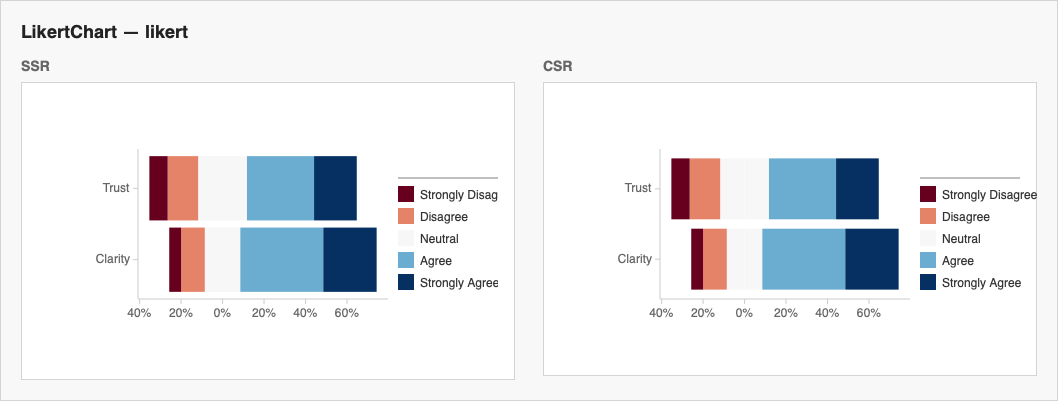
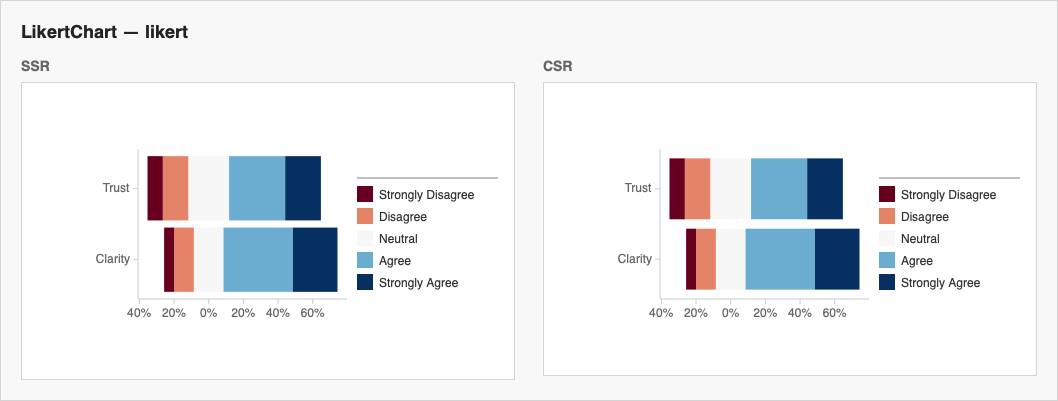
Reduce default legend distance to 10px
Updates legend spacing defaults from 12px to 10px across client and SSR paths. This adjusts automatic side/top margin reservations, legend placement math, and the legend-tight diagnostic threshold, with corresponding docs, unit tests, server tests, and SSR parity snapshots updated to match the new layout.

Changed region(s): [[0.6238, 0.389, 0.9981, 0.808], [0.1248, 0.389, 0.4679, 0.808]]

diff --git a/src/components/charts/shared/hooks.test.ts b/src/components/charts/shared/hooks.test.ts
@@ -527,7 +527,7 @@ describe("useChartLegendAndMargin", () => {
     expect(groups).toHaveLength(2)
     expect(groups[0].items.map(item => item.label)).toEqual(["A", "B", "C"])
     expect(groups[1].items[0].label).toBe("Threshold")
-    expect(result.current.margin.right).toBe(112)
+    expect(result.current.margin.right).toBe(110)
   })
 
   it("carries caller legendDistance into the composed automatic legend", () => {
@@ -586,7 +586,7 @@ describe("useChartLegendAndMargin", () => {
         userMargin: undefined,
       })
     )
-    expect(result.current.margin.right).toBe(112)
+    expect(result.current.margin.right).toBe(110)
   })
 
   it("preserves an explicitly owned right margin", () => {
@@ -614,7 +614,7 @@ describe("useChartLegendAndMargin", () => {
         userMargin: { right: undefined },
       })
     )
-    expect(result.current.margin.right).toBe(112)
+    expect(result.current.margin.right).toBe(110)
   })
 
   it("treats auto and null margin sides as explicit auto-reservation", () => {
@@ -628,7 +628,7 @@ describe("useChartLegendAndMargin", () => {
         userMargin: { right: "auto" },
       })
     )
-    expect(rightAuto.result.current.margin.right).toBe(112)
+    expect(rightAuto.result.current.margin.right).toBe(110)
 
     const rightNull = renderHook(() =>
       useChartLegendAndMargin({
@@ -639,7 +639,7 @@ describe("useChartLegendAndMargin", () => {
         userMargin: { right: null },
       })
     )
-    expect(rightNull.result.current.margin.right).toBe(112)
+    expect(rightNull.result.current.margin.right).toBe(110)
   })
 
   it("sizes automatic side margins from the longest legend label", () => {
@@ -667,7 +667,7 @@ describe("useChartLegendAndMargin", () => {
       })
     )
 
-    expect(right.result.current.margin.right).toBeGreaterThan(112)
+    expect(right.result.current.margin.right).toBeGreaterThan(110)
     expect(left.result.current.margin.left).toBe(right.result.current.margin.right)
   })
 
@@ -709,7 +709,7 @@ describe("useChartLegendAndMargin", () => {
       })
     )
 
-    expect(result.current.margin.top).toBe(58)
+    expect(result.current.margin.top).toBe(56)
   })
 
   it("merges user margin with defaults", () => {

diff --git a/src/components/server/staticLegend.test.tsx b/src/components/server/staticLegend.test.tsx
@@ -73,8 +73,8 @@ describe("renderStaticLegend", () => {
       ...baseConfig,
       margin: { ...baseConfig.margin, right: 100 },
     })
-    // Right position aligns 12px after chart content: totalWidth - margin.right + 12 = 512
-    expect(svg).toContain("translate(512,")
+    // Right position aligns 10px after chart content: totalWidth - margin.right + 10 = 510
+    expect(svg).toContain("translate(510,")
   })
 
   it("positions legend at top", () => {
@@ -85,7 +85,7 @@ describe("renderStaticLegend", () => {
 
   it("matches the client bottom legend placement", () => {
     const svg = renderLegendString({ ...baseConfig, position: "bottom" })
-    expect(svg).toContain("translate(40,382)")
+    expect(svg).toContain("translate(40,380)")
   })
 
   it("positions legend at left", () => {
@@ -94,7 +94,7 @@ describe("renderStaticLegend", () => {
       position: "left",
       margin: { ...baseConfig.margin, left: 100 },
     })
-    expect(svg).toContain("translate(-12,")
+    expect(svg).toContain("translate(-10,")
   })
 
   it("uses legendDistance as the plot-to-legend gap", () => {

diff --git a/docs/src/pages/features/LegendsPage.jsx b/docs/src/pages/features/LegendsPage.jsx
@@ -147,7 +147,7 @@ const legendProps = [
     name: "legend.legendDistance",
     type: "number",
     required: false,
-    default: "12",
+    default: "10",
     description:
       "Gap in pixels between the nearest legend edge and the plot edge. This does not add padding at the outer SVG edge.",
   },
@@ -416,7 +416,7 @@ export default function LegendsPage() {
 
       <p>
         <code>legendDistance</code> belongs to the legend configuration and
-        defaults to <code>12</code> pixels. It measures the gap between the
+        defaults to <code>10</code> pixels. It measures the gap between the
         nearest legend edge and the plot edge; it does not add padding at the
         outside edge of the SVG.
       </p>

diff --git a/src/components/legendLayout.test.ts b/src/components/legendLayout.test.ts
@@ -15,7 +15,7 @@ describe("side legend measurement", () => {
     }
 
     expect(resolveSideLegendWidth(legend)).toBe(100)
-    expect(resolveSideLegendMargin(legend)).toBe(112)
+    expect(resolveSideLegendMargin(legend)).toBe(110)
   })
 
   it("grows to fit categorical item and group labels", () => {
@@ -75,6 +75,6 @@ describe("side legend measurement", () => {
     expect(resolveSideLegendMargin(
       legend,
       { swatchSize: 80, labelGap: 30 },
-    )).toBe(129)
+    )).toBe(127)
   })
 })

diff --git a/src/components/server/serverFeatures.renderChart.test.tsx b/src/components/server/serverFeatures.renderChart.test.tsx
@@ -548,8 +548,8 @@ describe("renderChart", () => {
     expect(svg).toContain(">Review<")
     expect(countMatches(svg, />Intake</g)).toBe(1)
     expect(countMatches(svg, />Review</g)).toBe(1)
-    expect(svg).toContain('class="semiotic-legend" transform="translate(272,30)"')
-    expect(explicitRight).toContain('class="semiotic-legend" transform="translate(382,30)"')
+    expect(svg).toContain('class="semiotic-legend" transform="translate(270,30)"')
+    expect(explicitRight).toContain('class="semiotic-legend" transform="translate(380,30)"')
   })
 
   it("composes caller groups after specialized chart-owned legends", () => {

diff --git a/src/components/server/staticSVGChrome.tsx b/src/components/server/staticSVGChrome.tsx
@@ -115,8 +115,8 @@ function effectiveFrameLegend(
 }
 
 const HOC_LEGEND_MARGIN: Record<LegendPosition, number> = {
-  right: 112,
-  left: 112,
+  right: 110,
+  left: 110,
   top: 50,
   bottom: 80,
 }

diff --git a/src/components/types/legendTypes.tsx b/src/components/types/legendTypes.tsx
@@ -31,13 +31,13 @@ export interface GradientLegendConfig {
 
 export interface CategoricalLegendConfig {
   legendGroups: LegendGroup[]
-  /** Gap in pixels between the legend edge and the plot edge. Default: 12. */
+  /** Gap in pixels between the legend edge and the plot edge. Default: 10. */
   legendDistance?: number
 }
 
 export interface GradientLegendValue {
   gradient: GradientLegendConfig
-  /** Gap in pixels between the legend edge and the plot edge. Default: 12. */
+  /** Gap in pixels between the legend edge and the plot edge. Default: 10. */
   legendDistance?: number
 }
 

diff --git a/src/components/charts/shared/diagnoseConfig.ts b/src/components/charts/shared/diagnoseConfig.ts
@@ -307,7 +307,7 @@ function checkLegendMarginTight(
   const m = props.margin
   if (!m || typeof m !== "object") return
   const sideMargin = m[pos]
-  if (typeof sideMargin === "number" && sideMargin < 112) {
+  if (typeof sideMargin === "number" && sideMargin < 110) {
     out.push({
       severity: "warning",
       code: "LEGEND_MARGIN_TIGHT",

diff --git a/src/components/legendLayout.ts b/src/components/legendLayout.ts
@@ -6,7 +6,7 @@ export const DEFAULT_LEGEND_LABEL_GAP = 6
 export const DEFAULT_LEGEND_ITEM_GAP = 10
 export const DEFAULT_LEGEND_ROW_HEIGHT = 22
 export const DEFAULT_SIDE_LEGEND_WIDTH = 100
-export const DEFAULT_LEGEND_DISTANCE = 12
+export const DEFAULT_LEGEND_DISTANCE = 10
 
 /**
  * SVG text has no useful intrinsic width until after it is mounted. Keep the

diff --git a/src/components/server/serverFeatures.test.tsx b/src/components/server/serverFeatures.test.tsx
@@ -93,7 +93,7 @@ describe("DifferenceChart server layout", () => {
       margin: { right: 64 },
     })
 
-    expect(svg).toContain('class="semiotic-legend" transform="translate(368,50)"')
+    expect(svg).toContain('class="semiotic-legend" transform="translate(366,50)"')
   })
 })
 

diff --git a/src/components/server/staticLegend.tsx b/src/components/server/staticLegend.tsx
@@ -73,7 +73,7 @@ export interface StaticLegendConfig {
   hasTitle?: boolean
   /** SSR legend layout controls */
   legendLayout?: LegendLayout
-  /** Gap in pixels between the legend edge and the plot edge. Default: 12. */
+  /** Gap in pixels between the legend edge and the plot edge. Default: 10. */
   legendDistance?: number
   /** Optional vertical placement-box override. Defaults to measured content. */
   reservedWidth?: number